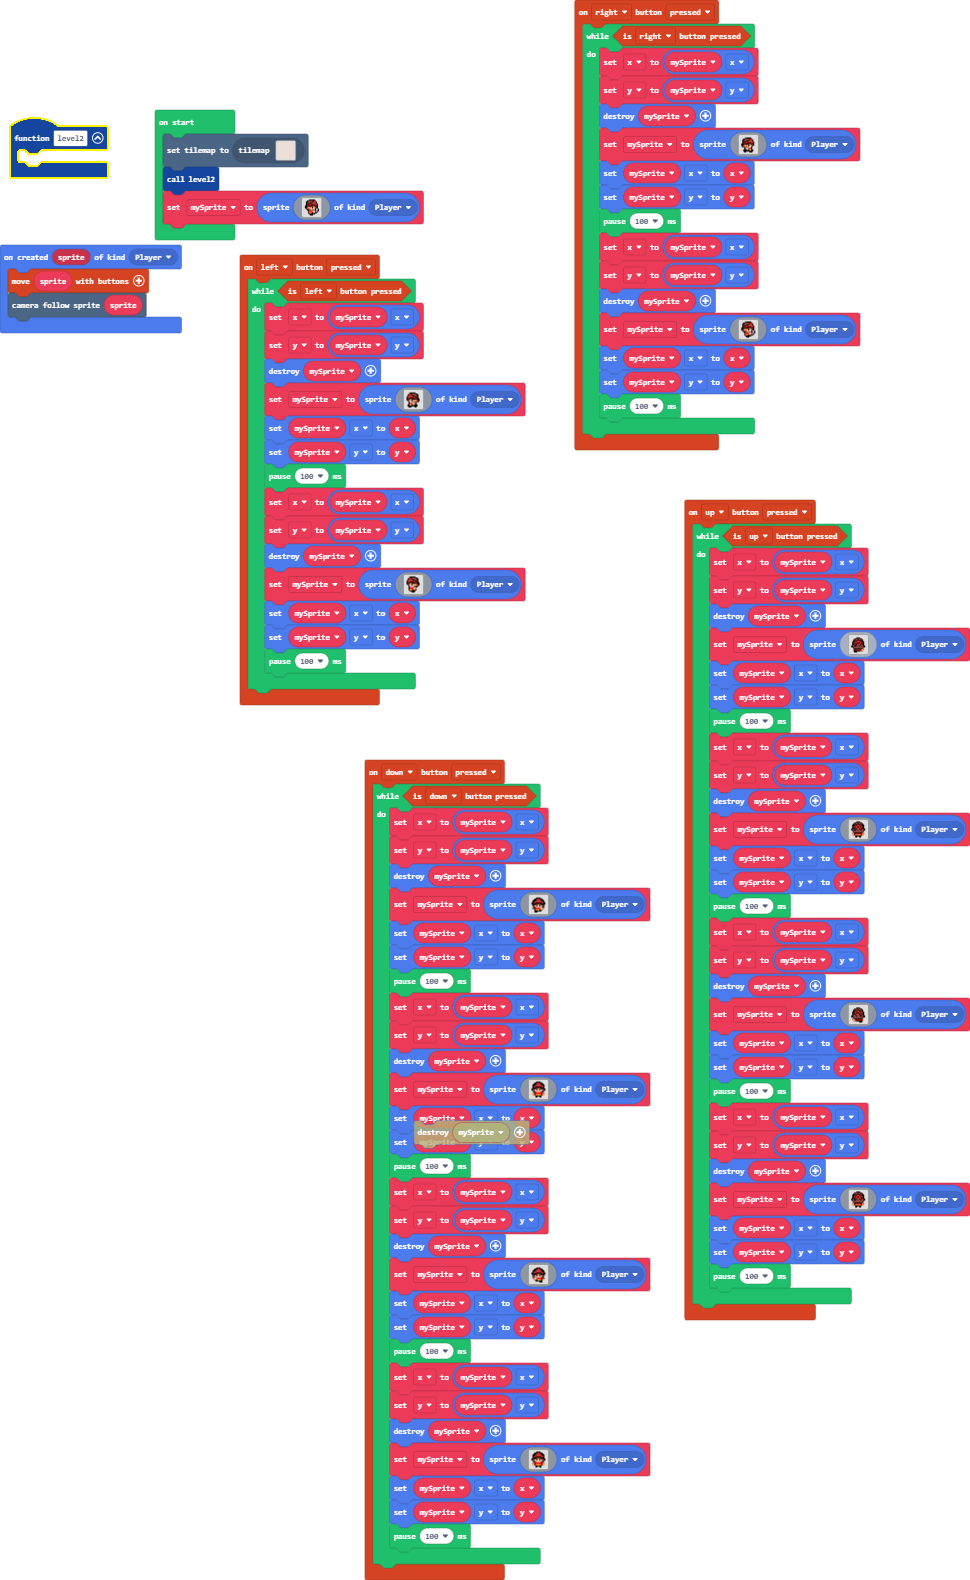
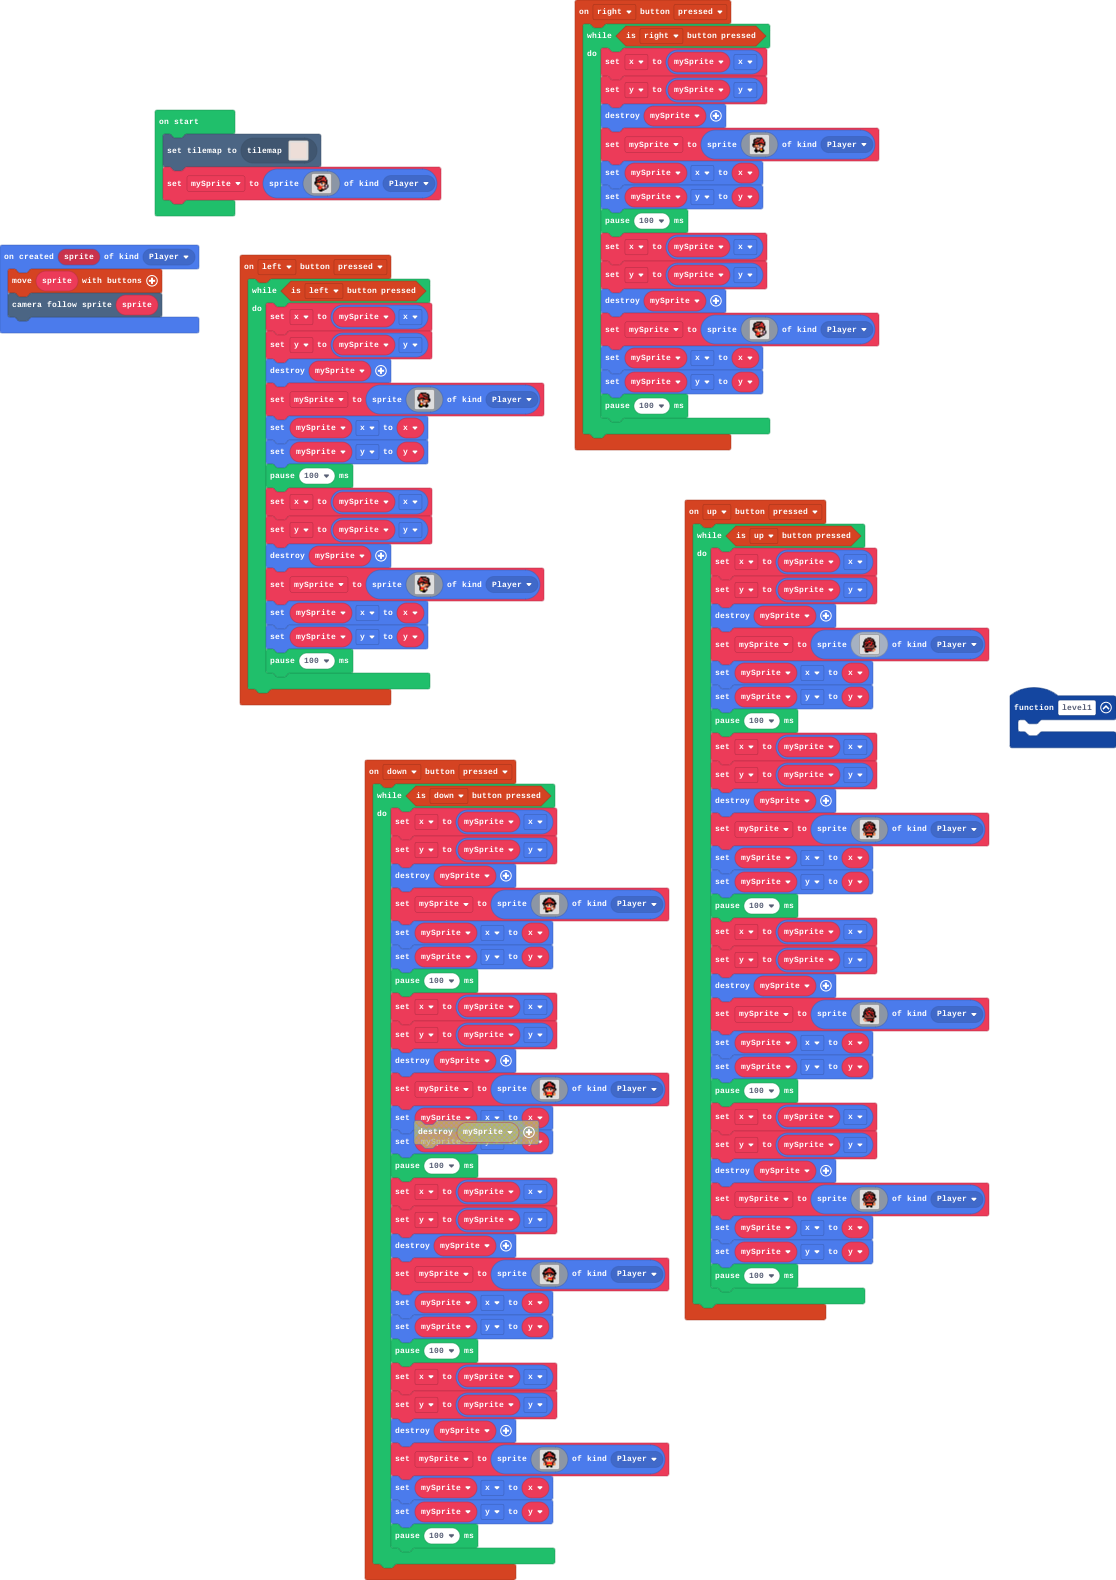
Update main.blocks, main.ts

diff --git a/main.ts b/main.ts
@@ -98,6 +98,9 @@ controller.up.onEvent(ControllerButtonEvent.Pressed, function () {
         pause(100)
     }
 })
+function level1 () {
+	
+}
 controller.left.onEvent(ControllerButtonEvent.Pressed, function () {
     while (controller.left.isPressed()) {
         x = mySprite.x
